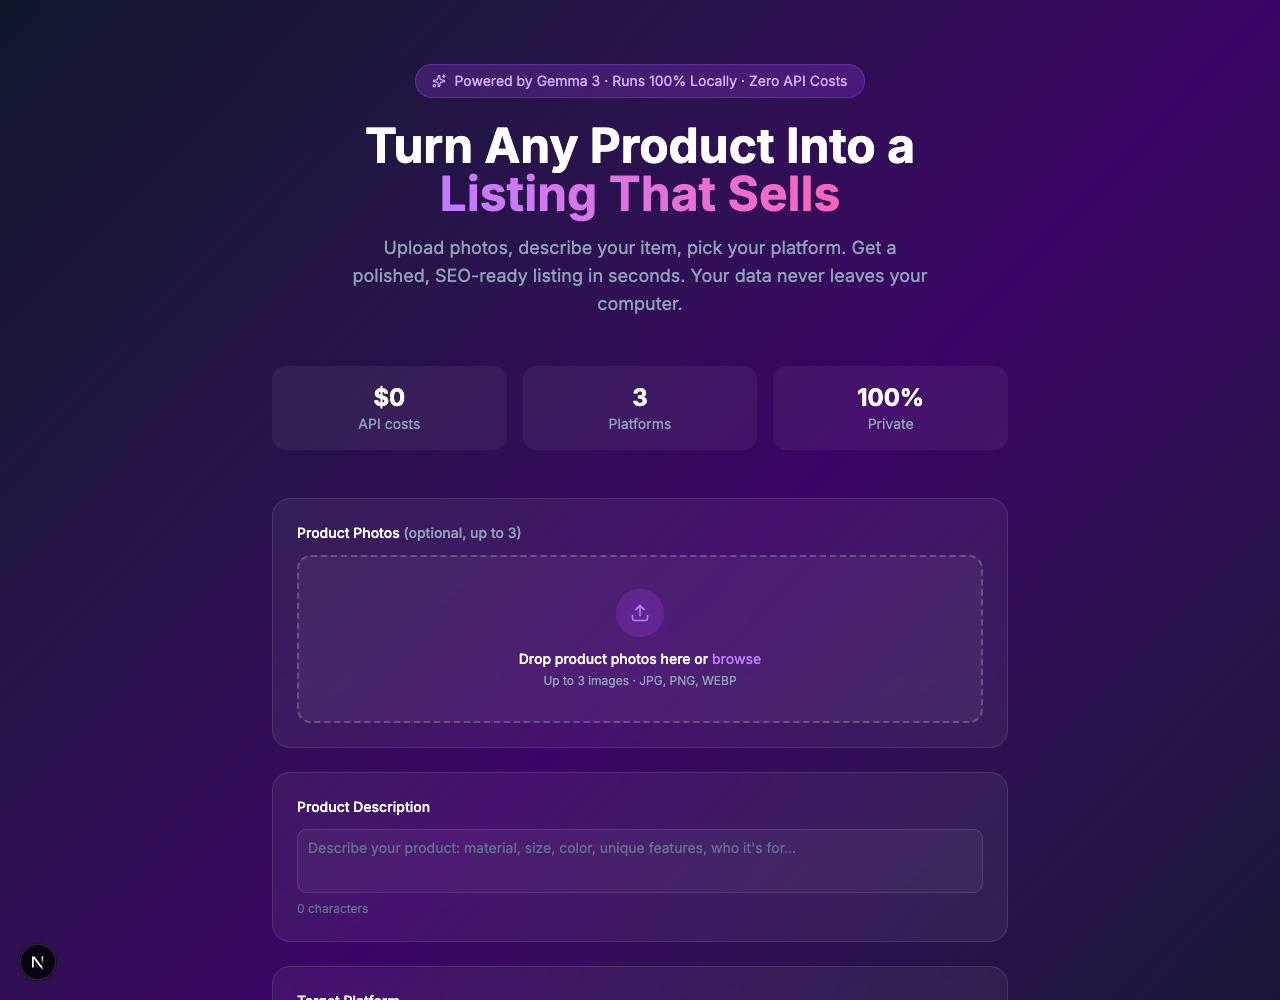
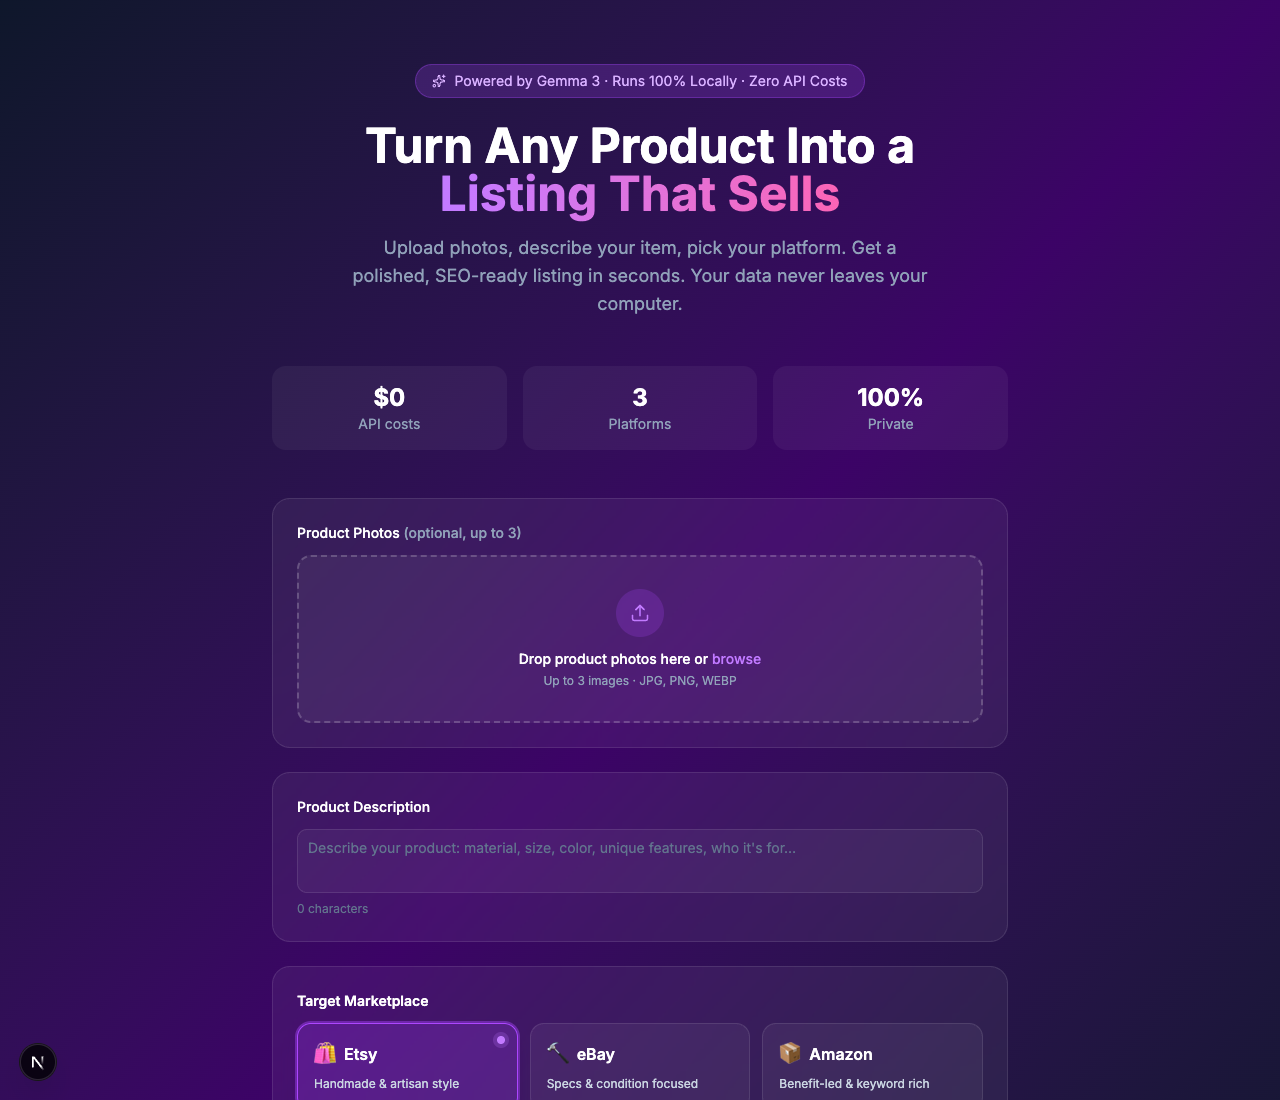
feat: replace small dropdown with modern marketplace selection cards

diff --git a/components/listing-form.tsx b/components/listing-form.tsx
@@ -93,25 +93,37 @@ export default function ListingForm() {
         <p className="mt-2 text-xs text-slate-500">{description.length} characters</p>
       </div>
 
-      {/* Platform */}
+      {/* Platform Selector Cards */}
       <div className="rounded-2xl border border-white/10 bg-white/5 p-6 backdrop-blur-sm">
-        <label className="mb-3 block text-sm font-medium text-white">Target Platform</label>
-        <Select value={platform} onValueChange={(v) => setPlatform(v as Platform)}>
-          <SelectTrigger className="border-white/10 bg-white/5 text-white">
-            <SelectValue />
-          </SelectTrigger>
-          <SelectContent className="border-white/10 bg-slate-900 text-white">
-            {PLATFORM_OPTIONS.map((opt) => (
-              <SelectItem key={opt.value} value={opt.value} className="focus:bg-white/10">
-                <div className="flex items-center gap-2">
-                  <span>{opt.emoji}</span>
-                  <span className="font-medium">{opt.label}</span>
-                  <span className="text-slate-400">— {opt.desc}</span>
+        <label className="mb-3 block text-sm font-semibold text-white">
+          Target Marketplace
+        </label>
+        <div className="grid grid-cols-1 sm:grid-cols-3 gap-3">
+          {PLATFORM_OPTIONS.map((opt) => {
+            const isSelected = platform === opt.value;
+            return (
+              <button
+                key={opt.value}
+                type="button"
+                onClick={() => setPlatform(opt.value)}
+                className={`relative flex flex-col items-start p-4 rounded-xl border text-left transition-all ${
+                  isSelected
+                    ? 'border-purple-500 bg-purple-500/20 ring-2 ring-purple-500/40 shadow-lg shadow-purple-950/50'
+                    : 'border-white/10 bg-white/5 hover:border-white/20 hover:bg-white/10'
+                }`}
+              >
+                <div className="flex items-center gap-2 mb-1.5">
+                  <span className="text-xl">{opt.emoji}</span>
+                  <span className="font-semibold text-white text-base">{opt.label}</span>
                 </div>
-              </SelectItem>
-            ))}
-          </SelectContent>
-        </Select>
+                <span className="text-xs text-slate-300 leading-relaxed">{opt.desc}</span>
+                {isSelected && (
+                  <span className="absolute top-3 right-3 h-2 w-2 rounded-full bg-purple-400 ring-4 ring-purple-400/20" />
+                )}
+              </button>
+            );
+          })}
+        </div>
       </div>
 
       {/* Error */}
